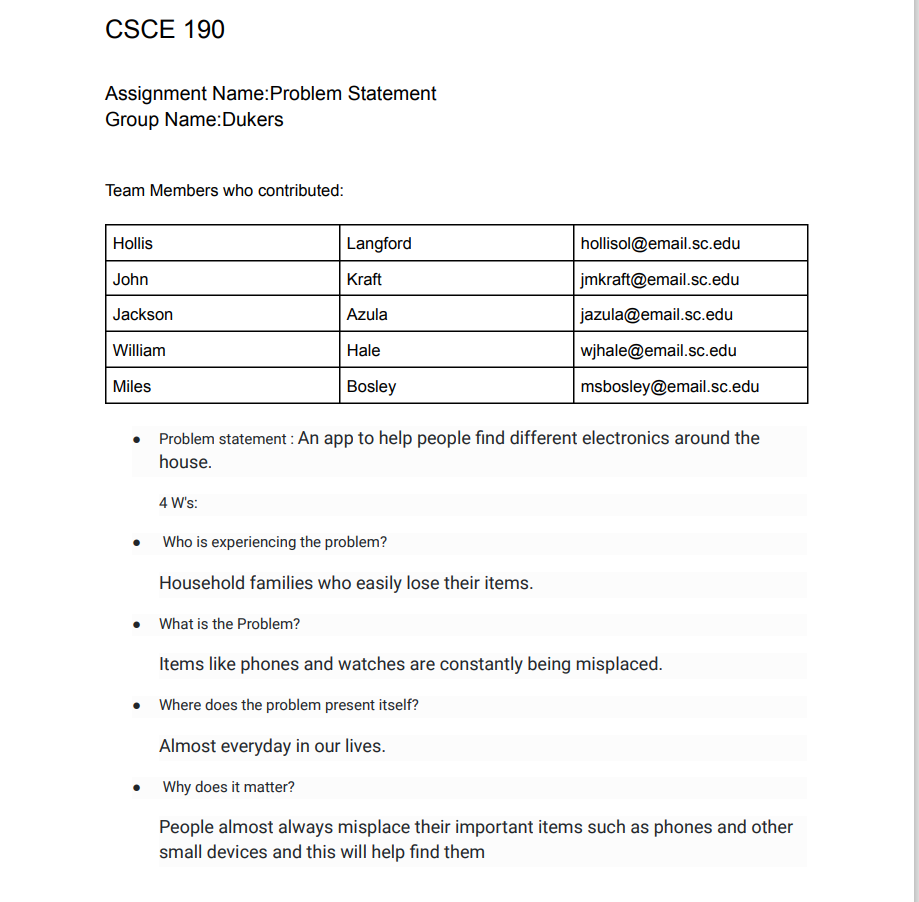
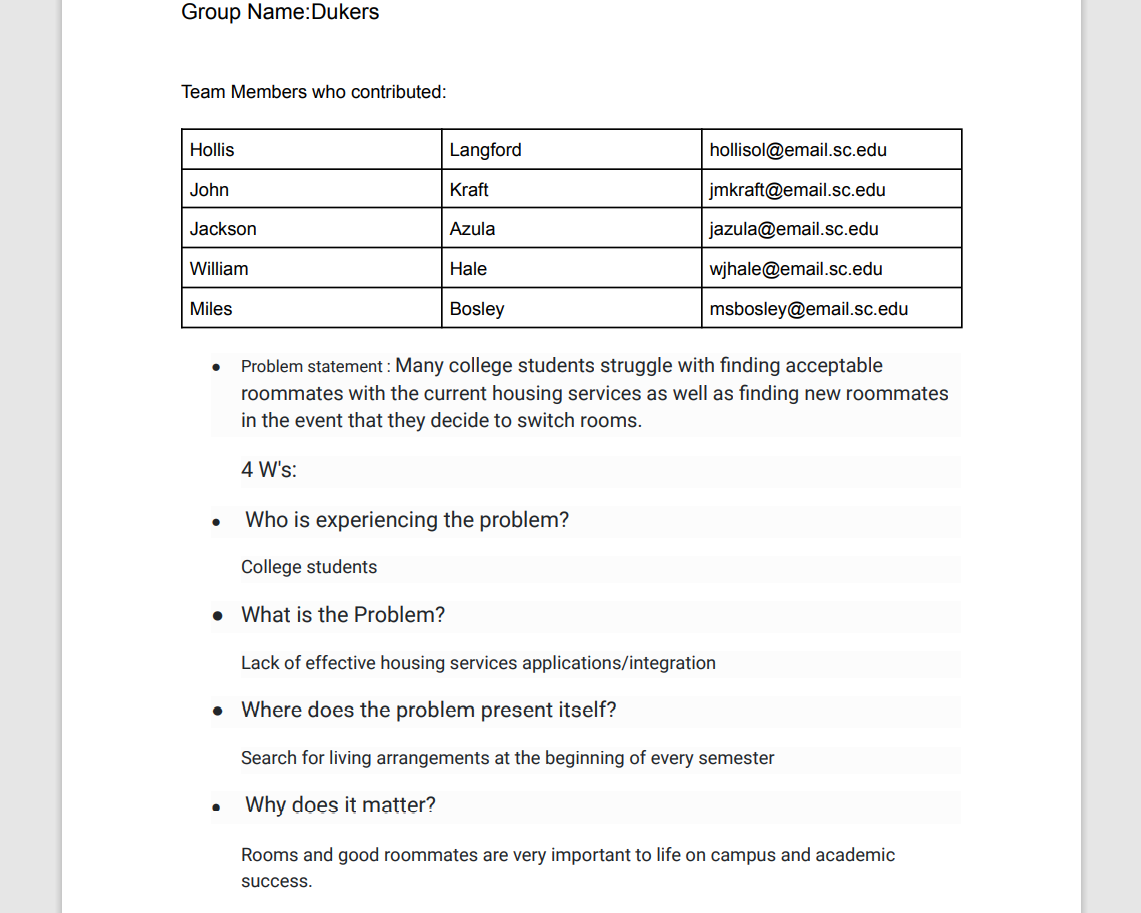
Add files via upload

diff --git a/index.html b/index.html
@@ -11,7 +11,7 @@
             <section class="ass-detail">
                 <a href="files/Dukers CSCE 190 - Title Page.pdf"><h2>Problem Statement</h2></a>
                 <p>
-                    People are constantly losing their devices so this will be an app to help them find all their lost electronics
+                    Many college students struggle with finding acceptable roommates with the current housing services as well as finding new roommates in the event that they decide to switch rooms.
                 </p>
             </section>
         </section>
